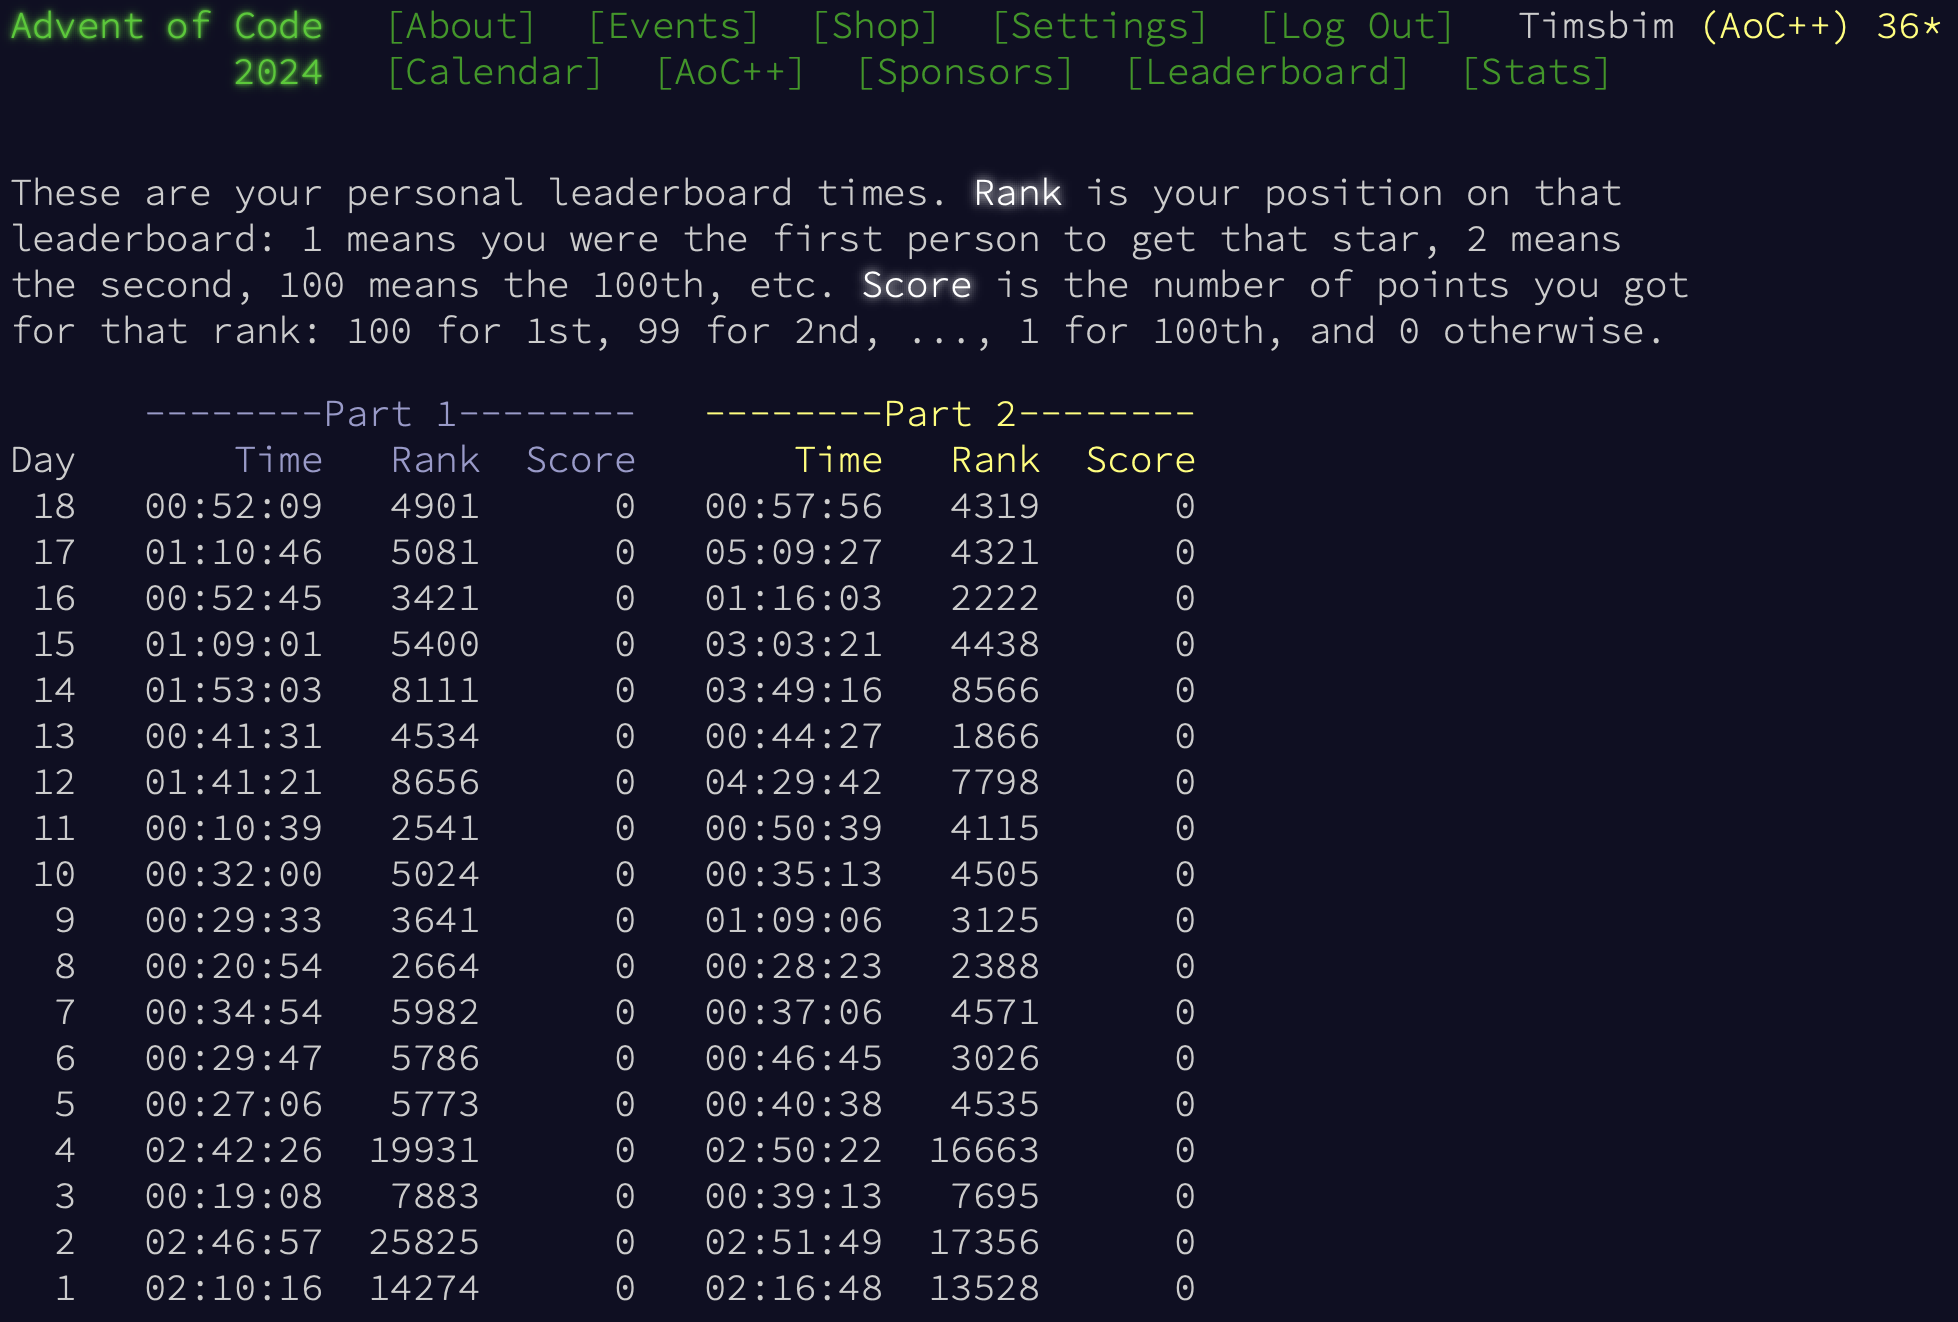
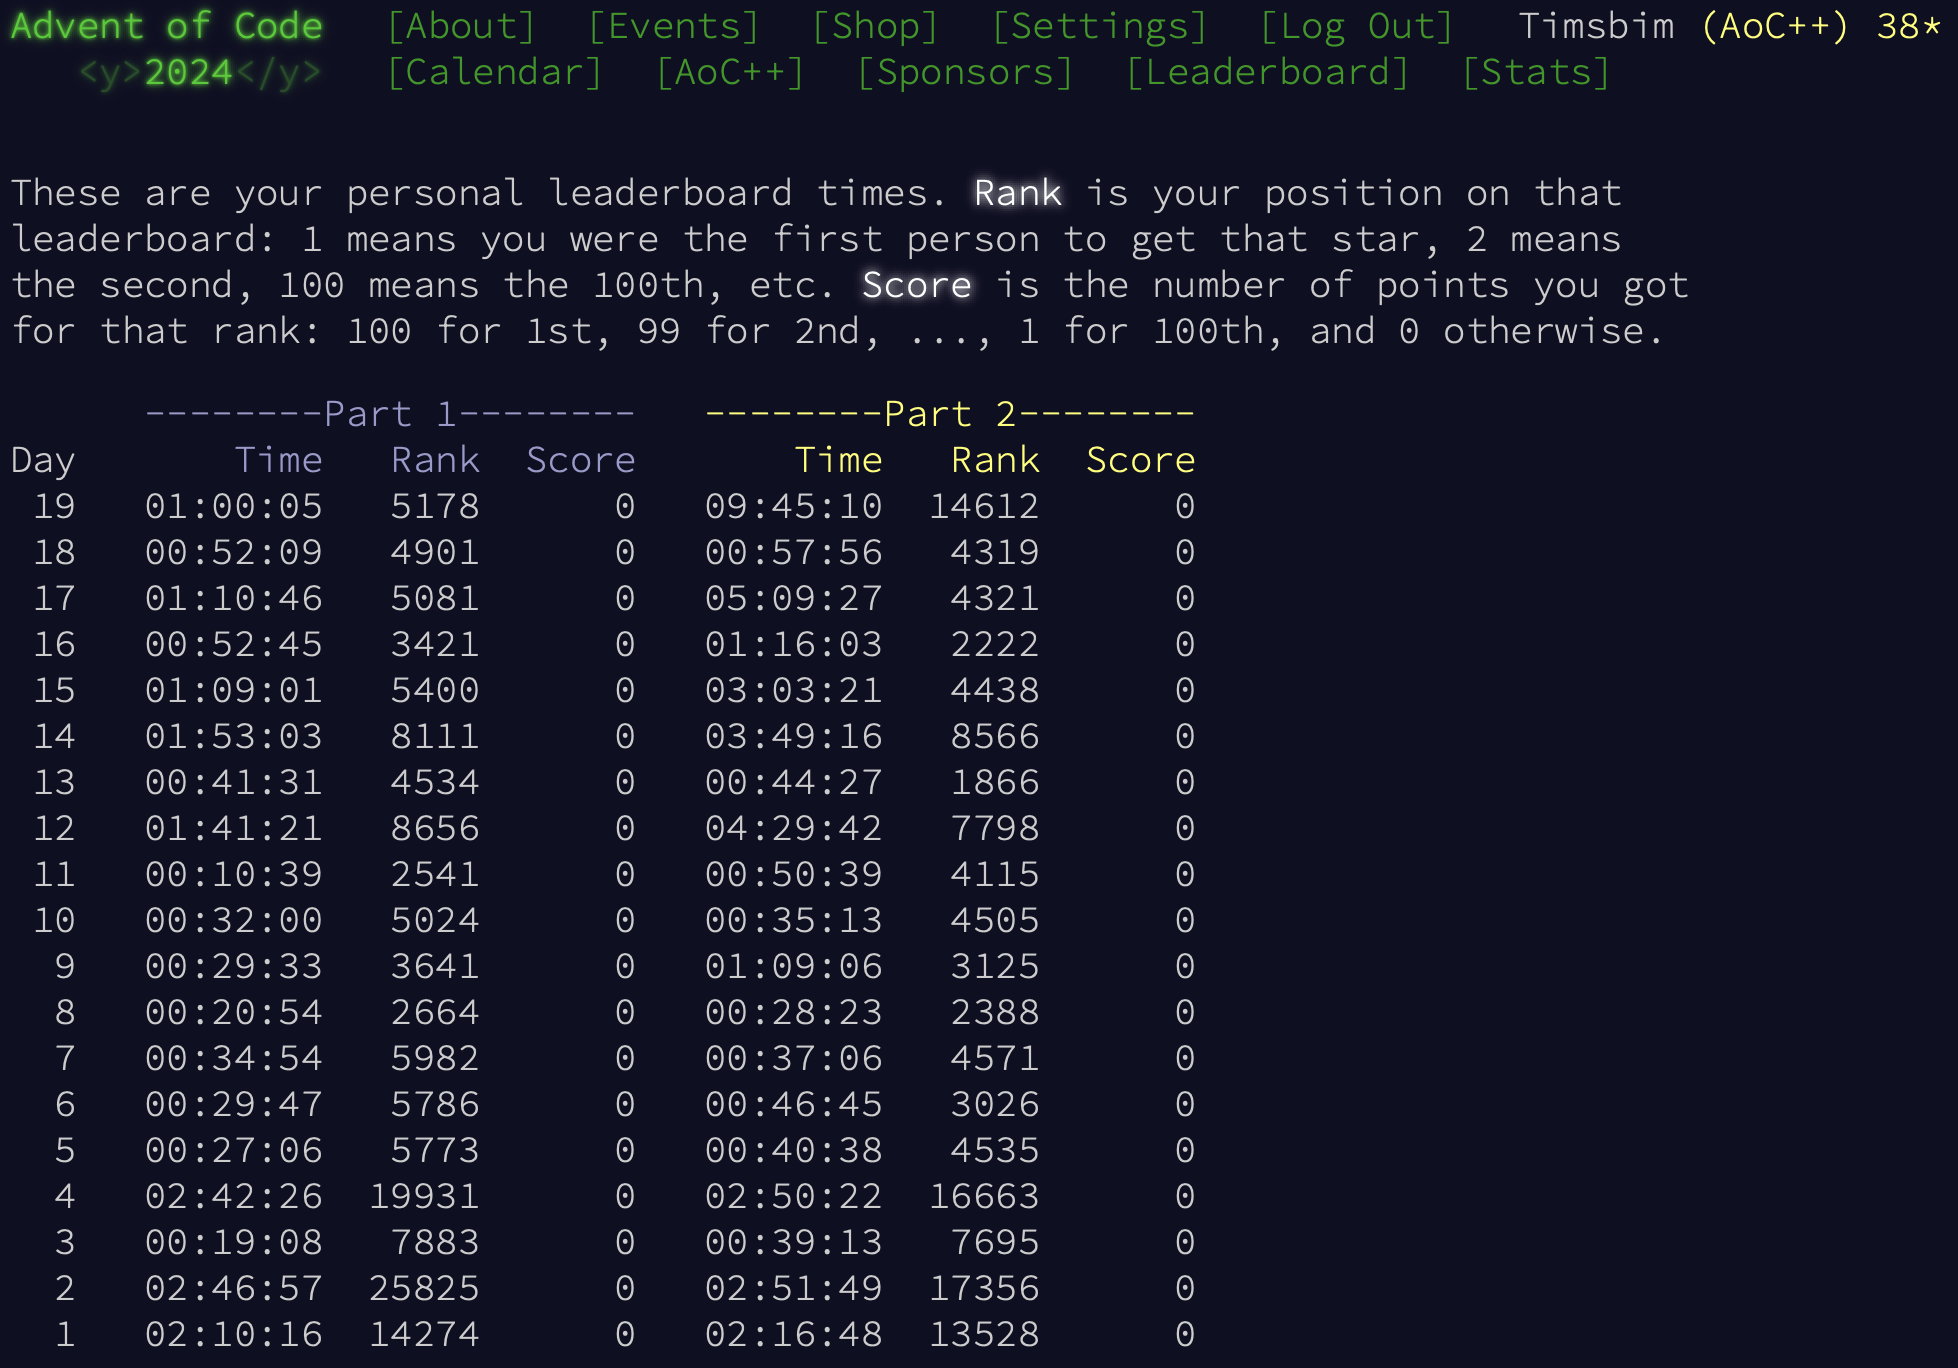
Update day 19

diff --git a/run_all.py b/run_all.py
@@ -204,8 +204,7 @@ def day_6():
     obstacles = set()
     for r, line in enumerate(grid):
         for c, char in enumerate(line):
-            if char == ".":
-                continue
+            if char == ".": continue
             if char == "#":
                 obstacles.add((r, c))
             else:
@@ -224,10 +223,10 @@ def day_6():
         d = d1
     print(f"  - part 1: {len(visited)}")
 
-    count, d_start = 0, direction
+    count = 0
     for position in visited - {start}:
         obstacles_mod = obstacles | {position}
-        (r, c), d = start, d_start
+        (r, c), d = start, direction
         visited = {(r, c, d)}
         while True:
             (dr, dc), d1 = DELTA[d], d
@@ -822,6 +821,36 @@ def day_18():
     print(f"  - part 2: {solution}")
 
 
+def day_19():
+    print("Day 19:")
+
+    file_name = f"2024/input/day_19{'_example' if EXAMPLE else ''}.txt"
+    with open(file_name, "r") as file:
+        patterns, designs =  file.read().split("\n\n")
+    PATTERNS = set(patterns.split(", "))
+    designs = tuple(designs.splitlines())
+
+
+    @cache
+    def accounting(design):
+        return (1 if design in PATTERNS else 0) + sum(
+            accounting(design[len(pattern):])
+            for pattern in PATTERNS
+            if design.startswith(pattern)
+        )
+
+
+    count_1 = count_2 = 0
+    for design in designs:
+        count = accounting(design)
+        if count:
+            count_1 += 1
+            count_2 += count
+
+    print(f"  - part 1: {count_1}")
+    print(f"  - part 2: {count_2}")
+
+
 days = {
     1: day_1,
     2: day_2,
@@ -840,7 +869,8 @@ days = {
     15: day_15,
     16: day_16,
     17: day_17,
-    18: day_18
+    18: day_18,
+    19: day_19
 }
 
 

diff --git a/day_19.py b/day_19.py
@@ -1,0 +1,31 @@
+from functools import cache
+
+
+print("Day 19")
+EXAMPLE = False
+
+file_name = f"2024/input/day_19{'_example' if EXAMPLE else ''}.txt"
+with open(file_name, "r") as file:
+    patterns, designs =  file.read().split("\n\n")
+PATTERNS = set(patterns.split(", "))
+designs = tuple(designs.splitlines())
+
+
+@cache
+def accounting(design):
+    return (1 if design in PATTERNS else 0) + sum(
+        accounting(design[len(pattern):])
+        for pattern in PATTERNS
+        if design.startswith(pattern)
+    )
+
+
+count_1 = count_2 = 0
+for design in designs:
+    count = accounting(design)
+    if count:
+        count_1 += 1
+        count_2 += count
+
+print(f"Part 1: {count_1}")
+print(f"Part 2: {count_2}")
